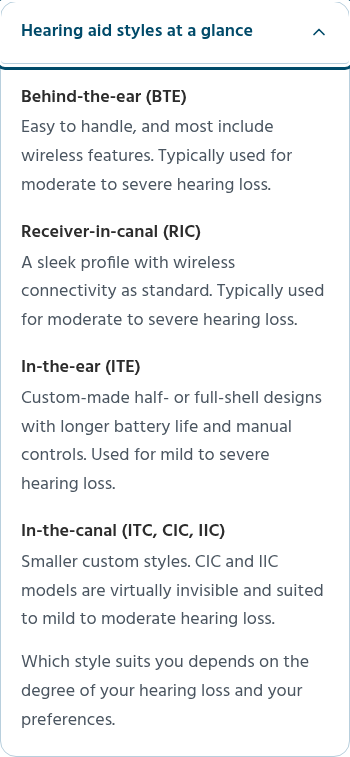
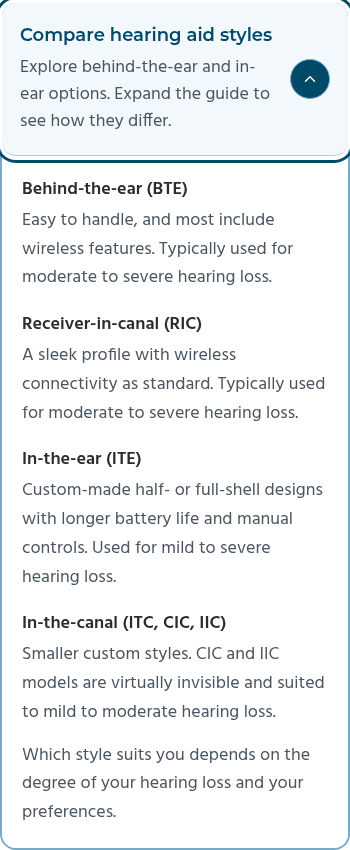
Make hearing aid style guide disclosure more prominent

diff --git a/index.html b/index.html
@@ -521,9 +521,16 @@ a:hover{ color:var(--hc-navy); }
 .hc-options .hc-brands ul{ list-style:none; margin:0; padding:0; display:flex; flex-wrap:wrap; gap:8px; align-items:center; }
 .hc-options .hc-brands li{ padding:5px 14px; border:1px solid var(--hc-options-border); border-radius:999px; background:var(--hc-white); font-weight:500; font-size:1.125rem; line-height:1.5; color:var(--hc-navy); }
 .hc-options .hc-brands p{ grid-column:2; font-size:1.125rem; line-height:1.6; color:var(--hc-muted); }
-.hc-options .hc-more{ margin-top:20px; border:1px solid var(--hc-options-border); border-radius:16px; }
+.hc-options .hc-more{ margin-top:20px; border:2px solid #76aac7; border-radius:16px; background:var(--hc-surface); }
+.hc-options .hc-more summary{ padding:22px 24px; gap:20px; }
+.hc-options__guide-text{ display:flex; flex-direction:column; gap:6px; }
+.hc-options__guide-title{ font-family:var(--hc-head); font-size:1.25rem; font-weight:600; line-height:1.4; }
+.hc-options__guide-description{ font-size:1.125rem; font-weight:400; line-height:1.5; color:var(--hc-muted); }
+.hc-options .hc-more summary > .hc-icon{ flex:none; width:40px; height:40px; padding:10px; border:1px solid #76aac7; border-radius:50%; color:var(--hc-white); background:var(--hc-navy); }
+.hc-options .hc-more summary:hover{ background:#e4f1fa; border-radius:14px; }
+.hc-options .hc-more summary:focus-visible{ outline:3px solid var(--hc-navy); outline-offset:4px; border-radius:14px; }
 .hc-options .hc-more[open] summary{ border-bottom:1px solid var(--hc-options-border); }
-.hc-options .hc-more[open] .hc-more__body{ padding-top:20px; }
+.hc-options .hc-more[open] .hc-more__body{ padding-top:20px; background:var(--hc-white); border-radius:0 0 14px 14px; }
 .hc-options .hc-more summary,.hc-options .hc-more__body,.hc-options .hc-more__body > p{ font-size:1.125rem; line-height:1.6; }
 .hc-options .hc-more__body dl{ grid-template-columns:repeat(2,minmax(0,1fr)); gap:22px 36px; }
 @media(max-width:1023px){
@@ -550,6 +557,8 @@ a:hover{ color:var(--hc-navy); }
  .hc-options .hc-brands ul{ gap:8px; }
  .hc-options .hc-brands p{ grid-column:auto; }
  .hc-options .hc-more__body dl{ grid-template-columns:1fr; gap:18px; }
+ .hc-options .hc-more summary{ padding:20px 18px; gap:14px; }
+ .hc-options__guide-title{ font-size:1.125rem; }
 }
 
 /* ---------- Payment ---------- */
@@ -991,7 +1000,7 @@ a:hover{ color:var(--hc-navy); }
         <p>Your hearing needs and lifestyle guide the recommendation.</p>
       </div>
       <details class="hc-more">
-        <summary>Hearing aid styles at a glance<svg class="hc-icon" aria-hidden="true"><use href="#i-chev"/></svg></summary>
+        <summary><span class="hc-options__guide-text"><span class="hc-options__guide-title">Compare hearing aid styles</span><span class="hc-options__guide-description">Explore behind-the-ear and in-ear options. Expand the guide to see how they differ.</span></span><svg class="hc-icon" aria-hidden="true"><use href="#i-chev"/></svg></summary>
         <div class="hc-more__body">
           <dl>
             <div><dt>Behind-the-ear (BTE)</dt><dd>Easy to handle, and most include wireless features. Typically used for moderate to severe hearing loss.</dd></div>

diff --git a/review/hero-review.html b/review/hero-review.html
@@ -521,9 +521,16 @@ a:hover{ color:var(--hc-navy); }
 .hc-options .hc-brands ul{ list-style:none; margin:0; padding:0; display:flex; flex-wrap:wrap; gap:8px; align-items:center; }
 .hc-options .hc-brands li{ padding:5px 14px; border:1px solid var(--hc-options-border); border-radius:999px; background:var(--hc-white); font-weight:500; font-size:1.125rem; line-height:1.5; color:var(--hc-navy); }
 .hc-options .hc-brands p{ grid-column:2; font-size:1.125rem; line-height:1.6; color:var(--hc-muted); }
-.hc-options .hc-more{ margin-top:20px; border:1px solid var(--hc-options-border); border-radius:16px; }
+.hc-options .hc-more{ margin-top:20px; border:2px solid #76aac7; border-radius:16px; background:var(--hc-surface); }
+.hc-options .hc-more summary{ padding:22px 24px; gap:20px; }
+.hc-options__guide-text{ display:flex; flex-direction:column; gap:6px; }
+.hc-options__guide-title{ font-family:var(--hc-head); font-size:1.25rem; font-weight:600; line-height:1.4; }
+.hc-options__guide-description{ font-size:1.125rem; font-weight:400; line-height:1.5; color:var(--hc-muted); }
+.hc-options .hc-more summary > .hc-icon{ flex:none; width:40px; height:40px; padding:10px; border:1px solid #76aac7; border-radius:50%; color:var(--hc-white); background:var(--hc-navy); }
+.hc-options .hc-more summary:hover{ background:#e4f1fa; border-radius:14px; }
+.hc-options .hc-more summary:focus-visible{ outline:3px solid var(--hc-navy); outline-offset:4px; border-radius:14px; }
 .hc-options .hc-more[open] summary{ border-bottom:1px solid var(--hc-options-border); }
-.hc-options .hc-more[open] .hc-more__body{ padding-top:20px; }
+.hc-options .hc-more[open] .hc-more__body{ padding-top:20px; background:var(--hc-white); border-radius:0 0 14px 14px; }
 .hc-options .hc-more summary,.hc-options .hc-more__body,.hc-options .hc-more__body > p{ font-size:1.125rem; line-height:1.6; }
 .hc-options .hc-more__body dl{ grid-template-columns:repeat(2,minmax(0,1fr)); gap:22px 36px; }
 @media(max-width:1023px){
@@ -550,6 +557,8 @@ a:hover{ color:var(--hc-navy); }
  .hc-options .hc-brands ul{ gap:8px; }
  .hc-options .hc-brands p{ grid-column:auto; }
  .hc-options .hc-more__body dl{ grid-template-columns:1fr; gap:18px; }
+ .hc-options .hc-more summary{ padding:20px 18px; gap:14px; }
+ .hc-options__guide-title{ font-size:1.125rem; }
 }
 
 /* ---------- Payment ---------- */
@@ -991,7 +1000,7 @@ a:hover{ color:var(--hc-navy); }
         <p>Your hearing needs and lifestyle guide the recommendation.</p>
       </div>
       <details class="hc-more">
-        <summary>Hearing aid styles at a glance<svg class="hc-icon" aria-hidden="true"><use href="#i-chev"/></svg></summary>
+        <summary><span class="hc-options__guide-text"><span class="hc-options__guide-title">Compare hearing aid styles</span><span class="hc-options__guide-description">Explore behind-the-ear and in-ear options. Expand the guide to see how they differ.</span></span><svg class="hc-icon" aria-hidden="true"><use href="#i-chev"/></svg></summary>
         <div class="hc-more__body">
           <dl>
             <div><dt>Behind-the-ear (BTE)</dt><dd>Easy to handle, and most include wireless features. Typically used for moderate to severe hearing loss.</dd></div>

diff --git a/CONTENT_DIRECTION.md b/CONTENT_DIRECTION.md
@@ -212,3 +212,6 @@ Imagery: authentic in-hand photo remains preferred but is not available. Use the
 ## Options revision after updated GHL screenshots
 
 User requested stronger design and content. Keep the approved headline and conditional hearing-aid premise. Replace the low-contrast image-led opening with a compact navy introduction, white headline, and a modest labelled product frame sized to the existing asset. White canvas and three editorial benefit columns focus on appearance, comfort and connection; mobile stacks them with simple dividers. Shorten repeated prose and integrate compatibility/suitability qualifications. Keep the original style guide and all eight brands, now shown as plain text in a supporting strip rather than button-like chips. Main prose stays 18px. No CTA, other section or integration changes. Existing product URL remains; its actual appearance is supported by the user’s new GHL screenshots, while remote retrieval is blocked locally. No generated product imagery. Awaiting rendered review, not locked.
+
+
+User requested a more noticeable hearing-aid style disclosure. Rename the summary “Compare hearing aid styles,” add explanatory copy and an explicit expand instruction, use a pale-blue surface with a stronger 2px outline and a navy circular chevron. Retain native keyboard-accessible details, all expanded style content, responsive layout and existing type sizes elsewhere. No other section or integration changes.

diff --git a/review/OPTIONS_REVIEW.md b/review/OPTIONS_REVIEW.md
@@ -44,3 +44,6 @@ Use one consistent #b8cfdd border treatment for the product frame, shared three-
 
 
 Manufacturer border follow-up: user requested restoring the earlier rounded name outlines. All eight names now have white pill backgrounds, consistent thin borders and 8px wrapping gaps. No wording or other section changes.
+
+
+User requested a more noticeable hearing-aid style disclosure. Rename the summary “Compare hearing aid styles,” add explanatory copy and an explicit expand instruction, use a pale-blue surface with a stronger 2px outline and a navy circular chevron. Retain native keyboard-accessible details, all expanded style content, responsive layout and existing type sizes elsewhere. No other section or integration changes.

diff --git a/DESIGN_SYSTEM.md b/DESIGN_SYSTEM.md
@@ -254,3 +254,6 @@ Use one consistent #b8cfdd border treatment for the product frame, shared three-
 
 
 User requested restoring pill-shaped circular borders around all eight manufacturer names. Restore white-filled rounded outlines with consistent 8px gaps, preserving the existing panel, text sizes and section layout.
+
+
+User requested a more noticeable hearing-aid style disclosure. Rename the summary “Compare hearing aid styles,” add explanatory copy and an explicit expand instruction, use a pale-blue surface with a stronger 2px outline and a navy circular chevron. Retain native keyboard-accessible details, all expanded style content, responsive layout and existing type sizes elsewhere. No other section or integration changes.
